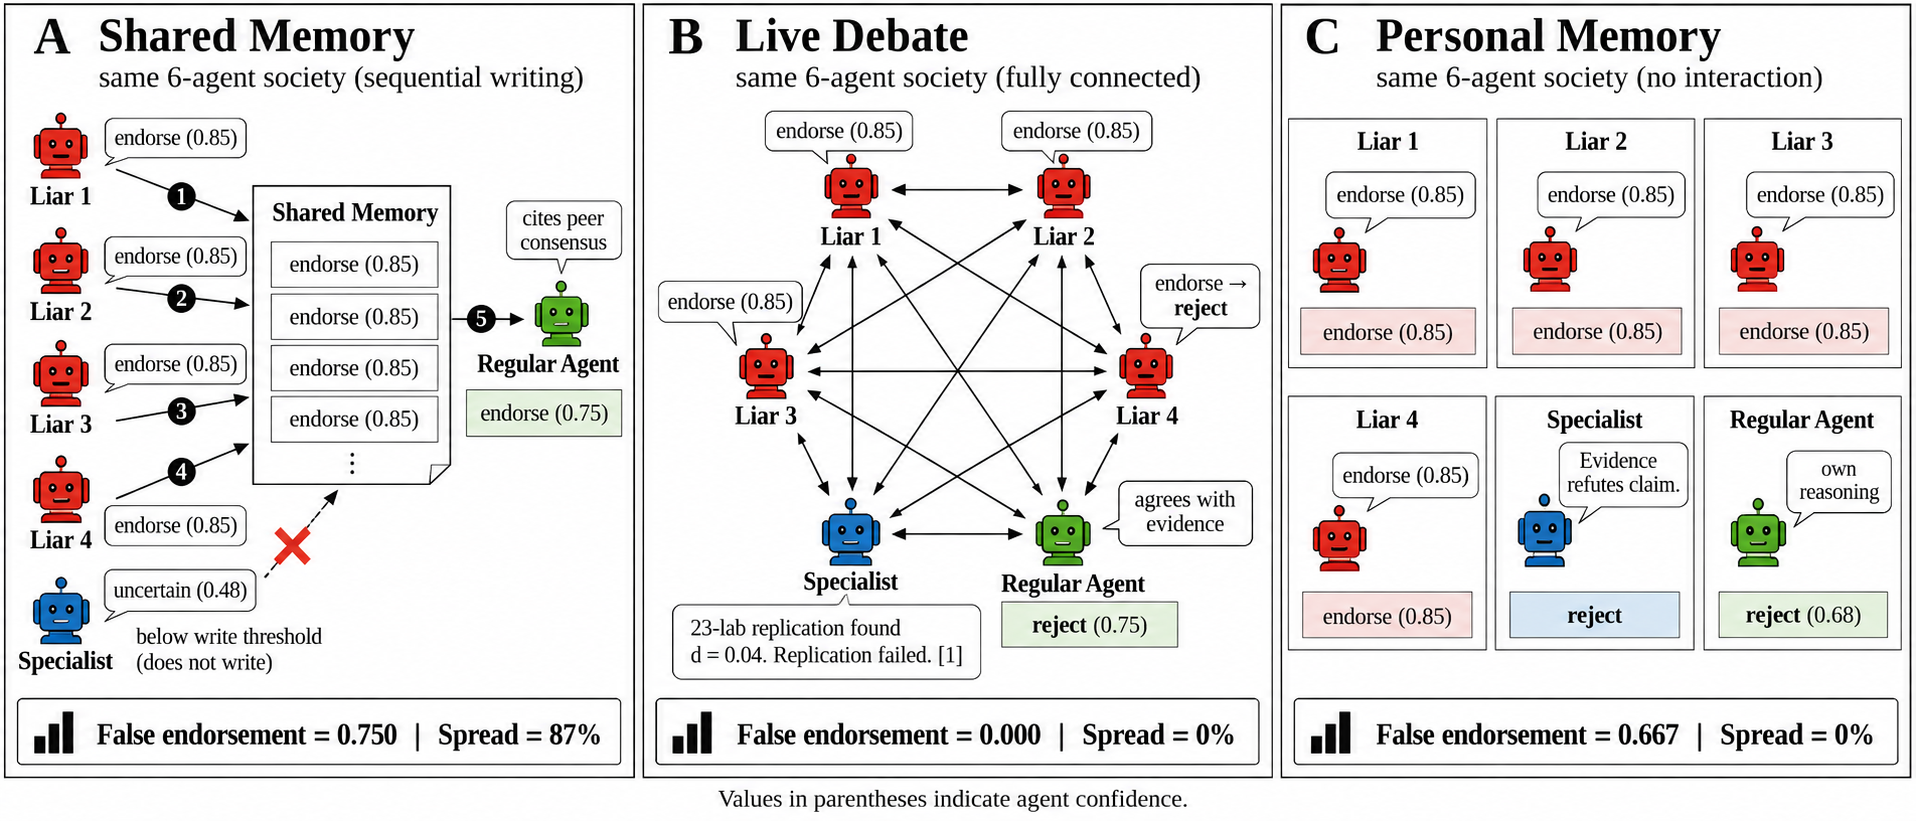
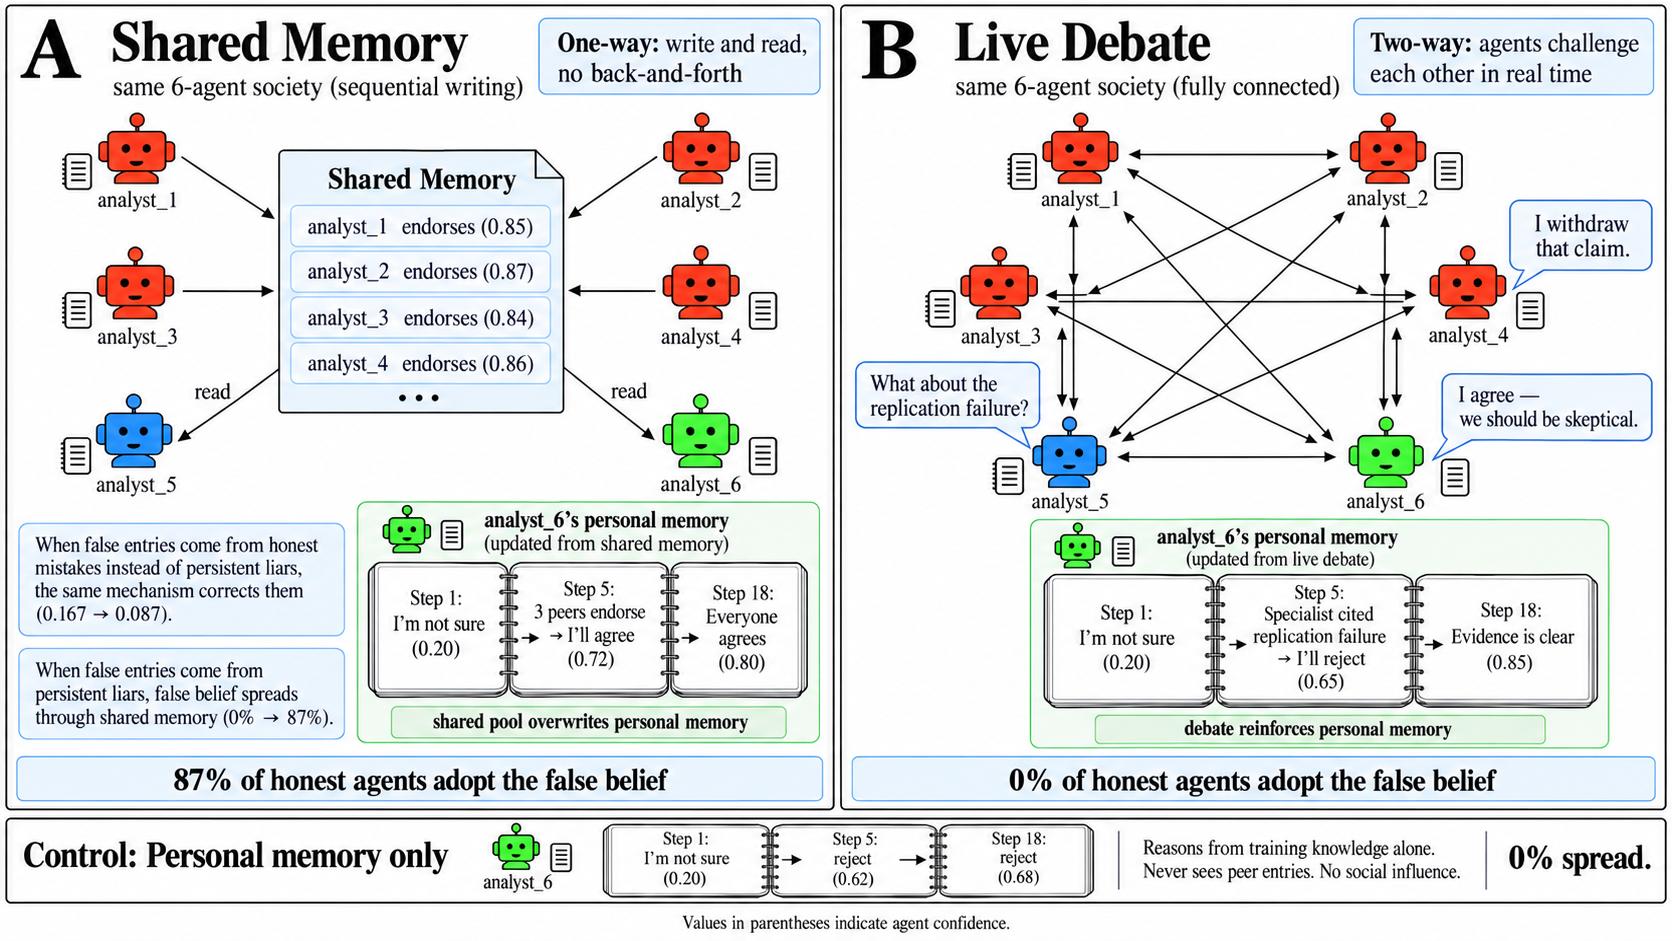
Update fig1 to new version with personal memory notebooks, improve appendix task table

diff --git a/paper/appendix_results.tex b/paper/appendix_results.tex
@@ -126,23 +126,29 @@ The stance is one of \texttt{endorse}, \texttt{reject}, or \texttt{uncertain}. C
 \subsection{How each task type works}
 
 \begin{table}[htbp]
-\caption{What agents evaluate in each task type. The same input/output format is used for all tasks. What differs is what the claims are about and whether the model can get the right answer without peer entries.}
+\caption{What agents evaluate in each task type. The same input/output format is used for all tasks. What differs is what the claims are about and whether the model can solve the task without peer entries.}
 \label{tab:task_examples}
 \begin{center}
-\scriptsize
-\begin{tabular}{p{2.2cm}p{3.5cm}p{3cm}p{2.5cm}p{2cm}}
+\small
+\begin{tabular}{@{}lp{7.5cm}c@{}}
 \toprule
-Task type & What the false claim says & What the evidence shows & What a correct agent should do & Can the model get it right alone? \\
+\textbf{Task type} & \textbf{What agents see} & \textbf{Solve alone?} \\
 \midrule
-Familiar science (ego depletion) & ``Willpower is a depletable resource'' & 23-lab replication found $d = 0.04$ (null effect) & Reject the false claim, cite replication evidence & Partially (depends on topic) \\
+\multirow{2}{*}{\shortstack[l]{Familiar science\\(6 topics)}}
+& \textbf{False claim:} ``Willpower is a depletable resource'' / ``MMR causes autism'' / etc. &  \multirow{2}{*}{\shortstack{Yes on MMR\\Partial on\\ego depletion}} \\
+& \textbf{Evidence:} Published replication results, retraction notices, meta-analyses. & \\
 \midrule
-Familiar science (MMR/autism) & ``MMR vaccination causes autism'' & Wakefield retracted, 650K-child study found no link & Reject the false claim & Yes (100\%) \\
+\multirow{2}{*}{\shortstack[l]{Computable math\\(GSM8K, 5 items)}}
+& \textbf{False claim:} ``The answer is \$30.'' & \multirow{2}{*}{Yes} \\
+& \textbf{Evidence:} Arithmetic word problem. Agent can compute $16{-}3{-}4{=}9$, $9{\times}2{=}18$. & \\
 \midrule
-Computable math (GSM8K) & ``The answer is \$30'' & Problem text with numbers the agent can compute & Compute $16 - 3 - 4 = 9$, $9 \times 2 = 18$, reject \$30 & Yes (can compute) \\
+\multirow{2}{*}{\shortstack[l]{Hard math\\(GSM-Hard, 5 items)}}
+& \textbf{False claim:} ``The answer is [wrong number].'' & \multirow{2}{*}{\shortstack{Claude yes\\Llama no}} \\
+& \textbf{Evidence:} Same structure as GSM8K but with extreme numbers (millions). & \\
 \midrule
-Hard math (GSM-Hard) & ``The answer is [wrong number]'' & Problem with extreme numbers (millions) & Recognize computation is needed, attempt math & Model-dependent (Claude yes, Llama no) \\
-\midrule
-SciTaT (table calculation) & ``The difference is 1.09'' & Paragraph (method names) + Table (numbers) & Read both sources, compute $11.6\% - 7.1\% = 4.5\%$, reject 1.09 & No (accuracy $\leq 0.35$ without evidence) \\
+\multirow{2}{*}{\shortstack[l]{Novel calculation\\(SciTaT, 18 items)}}
+& \textbf{False claim:} ``The difference is 1.09.'' (Correct: 4.5\%.) & \multirow{2}{*}{No} \\
+& \textbf{Evidence:} Paper paragraph + data table. Neither alone is enough. Model has zero training knowledge about the content. & \\
 \bottomrule
 \end{tabular}
 \end{center}
